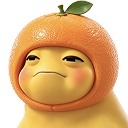
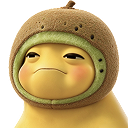
三款游戏统一固定版心；延续奶蛙主题文案
- 三款游戏 .app 版心由 max-width:520px 改为固定 402px（宽屏不拉伸，窄屏才等比缩）
- 连连看：棋盘铺满画板，外圈仅保留 EDGE_GAP(30) 作绕行通道；方块内图片留边收窄（0.14→0.06）显示更大；文案改称「奶蛙」
- 贪吃蛇：开始提示「吃掉苹果」改为「吃掉奶鼠」
- 合成大西瓜：标题与文案统一为「奶蛙」；同步更新 img/9.png

diff --git a/suika/index.html b/suika/index.html
@@ -1,12 +1,11 @@
 <!DOCTYPE html>
-<html lang="zh-CN">
-<head>
-<meta charset="UTF-8">
-<meta name="viewport" content="width=device-width, initial-scale=1.0, maximum-scale=1.0, user-scalable=no, viewport-fit=cover">
-<meta name="theme-color" content="#f0f6f2">
-<meta name="apple-mobile-web-app-capable" content="yes">
-<title>合成大奶蛙</title>
-<style>
+<html lang="zh-CN" data-page-node-id="FT675dci4vxzuFCVSeeFJL"><head data-page-node-id="plPsabgHAC2KqjtmM5Z9Ct">
+<meta charset="UTF-8" data-page-node-id="9n9oV82mLpjTgtW7QeIagv">
+<meta name="viewport" content="width=device-width, initial-scale=1.0, maximum-scale=1.0, user-scalable=no, viewport-fit=cover" data-page-node-id="nBC5vSygVzJ9nP63MO4BLQ">
+<meta name="theme-color" content="#f0f6f2" data-page-node-id="80XOnxO6BtZiggllyMXD4L">
+<meta name="apple-mobile-web-app-capable" content="yes" data-page-node-id="s0mWSZnbzwdZ5LklkCXJx9">
+<title data-page-node-id="EIeQpwPdKN1wwhliaQXJtQ">合成大奶蛙</title>
+<style data-page-node-id="c4By2quFOuNZPMDQRBTwdi">
   * { box-sizing: border-box; }
 
   html, body {
@@ -29,8 +28,9 @@
   }
 
   .app {
-    width: 100%;
-    max-width: 520px;
+    --app-w: 402px;              /* 版心宽度：固定值，屏幕再宽也不拉伸 */
+    width: var(--app-w);
+    max-width: 100%;             /* 只有比版心更窄的屏才等比缩 */
     height: 100vh;
     height: 100dvh;
     margin: 0 auto;
@@ -215,79 +215,79 @@
   .toast.show { opacity: 1; transform: translate(-50%, 0); }
 
   @media (orientation: landscape) and (max-height: 520px) {
-    .app { max-width: 100%; }
+    .app { width: 100%; max-width: 100%; }
     .title { display: none; }
     .tip { display: none; }
   }
 </style>
-</head>
-<body>
-<div class="app">
+<style id="__dm_no_drag_style__">* { -webkit-user-drag: none !important; }</style><style id="__dm_bindable_badge_style__">[data-sp-bindable="database"]{outline:1px dashed #0088ff;outline-offset:2px;border-radius:4px;}[data-sp-bindable="database"] *{pointer-events:none !important;transition:none !important;animation:none !important;}[data-sp-bindable="database"]{transition:none !important;animation:none !important;}</style></head>
+<body data-page-node-id="vkMs0VXdXnDuqpHVjusS9X" style="">
+<div class="app" data-page-node-id="0y4MkHG25q25IrNKgMRhko">
 
   <!-- 菜单栏 -->
-  <header class="topbar">
-    <div class="left">
-      <button class="icon-btn" id="btnBack" aria-label="返回">
-        <svg viewBox="0 0 24 24"><path d="M15 4.5 7.5 12 15 19.5"/></svg>
+  <header class="topbar" data-page-node-id="fCXFmN6wORQ83tbmJu3OzG">
+    <div class="left" data-page-node-id="JD6EvpFfHa9Y8bFGvStSdC">
+      <button class="icon-btn" id="btnBack" aria-label="返回" data-page-node-id="R958mbULn7pAnQHUgbvr3D">
+        <svg viewBox="0 0 24 24" data-page-node-id="cTPlEDU0LByGADNcatEPOU"><path d="M15 4.5 7.5 12 15 19.5" data-page-node-id="Apq2XpDBjtJMYs52GKmjwW"></path></svg>
       </button>
     </div>
-    <div class="title">合成大西瓜</div>
-    <div class="right">
-      <button class="icon-btn" id="btnSound" aria-label="音效">
-        <span id="soundIcon">
-          <svg viewBox="0 0 24 24">
-            <path d="M11 5 6.8 8.6H3.6v6.8h3.2L11 19z"/>
-            <path class="fill-icon" d="M11 5 6.8 8.6H3.6v6.8h3.2L11 19z"/>
+    <div class="title" data-page-node-id="ZUQByBQ4kOGAkBDkAYKKCN" style="">合成大奶蛙</div>
+    <div class="right" data-page-node-id="2gQh1R5IEGkOfTsEuAfRto">
+      <button class="icon-btn" id="btnSound" aria-label="音效" data-page-node-id="Zpe3aPAByVKpQZydC6z1xq">
+        <span id="soundIcon" data-page-node-id="gJP9DLcdlFssT82HaXitD6">
+          <svg viewBox="0 0 24 24" data-page-node-id="n4GdhuWRxjsjk9KllpAdZf">
+            <path d="M11 5 6.8 8.6H3.6v6.8h3.2L11 19z" data-page-node-id="D7RJ5HqVEoWrE1t8cQ9Heh"></path>
+            <path class="fill-icon" d="M11 5 6.8 8.6H3.6v6.8h3.2L11 19z" data-page-node-id="wRwqbbYBPLaFnTxmrAsNNI"></path>
           </svg>
         </span>
       </button>
-      <button class="icon-btn" id="btnPause" aria-label="暂停">
-        <span id="pauseIcon">
-          <svg viewBox="0 0 24 24">
-            <rect class="fill-icon" x="6.5" y="5" width="3.6" height="14" rx="1.4"/>
-            <rect class="fill-icon" x="13.9" y="5" width="3.6" height="14" rx="1.4"/>
+      <button class="icon-btn" id="btnPause" aria-label="暂停" data-page-node-id="2kFyOVNBgjuCKi3BxJ3BvI">
+        <span id="pauseIcon" data-page-node-id="afHJv87eIWyntykXQ7AmJT">
+          <svg viewBox="0 0 24 24" data-page-node-id="8bKXt5y41YHEjchVzE9M8V">
+            <rect class="fill-icon" x="6.5" y="5" width="3.6" height="14" rx="1.4" data-page-node-id="WptZPHwvqInOw9H7JujxE0"></rect>
+            <rect class="fill-icon" x="13.9" y="5" width="3.6" height="14" rx="1.4" data-page-node-id="YLQOaHOQsFPHdaW5MrFwQE"></rect>
           </svg>
         </span>
       </button>
-      <button class="icon-btn" id="btnReset" aria-label="重置">
-        <svg viewBox="0 0 24 24">
-          <path d="M20 12a8 8 0 1 1-2.6-5.9"/>
-          <path d="M20 4.5V10h-5.2"/>
+      <button class="icon-btn" id="btnReset" aria-label="重置" data-page-node-id="argEC1ARnguev22WwsmHGx">
+        <svg viewBox="0 0 24 24" data-page-node-id="iFdCiTnBoESxOw2tDsiWa2">
+          <path d="M20 12a8 8 0 1 1-2.6-5.9" data-page-node-id="TE1MBdvxXJUhberLhBRyhM"></path>
+          <path d="M20 4.5V10h-5.2" data-page-node-id="Xni7NnSnJ8Is1TSam3T6LG"></path>
         </svg>
       </button>
     </div>
   </header>
 
   <!-- 数据 -->
-  <div class="scores">
-    <div class="score-card">
-      <span class="label">得分</span>
-      <span class="value" id="score">0</span>
+  <div class="scores" data-page-node-id="nYhbjpJTGkFlU52qEAJ4vi">
+    <div class="score-card" data-page-node-id="8HVSjlAj0Z0M9hmUBE65AC">
+      <span class="label" data-page-node-id="AZwnAnPHDeGi9nEV1IbDqD">得分</span>
+      <span class="value" id="score" data-page-node-id="WTLuyB6TRuDrDDBXHPTsLf">0</span>
     </div>
-    <div class="score-card mid">
-      <span class="label">最高</span>
-      <span class="value best" id="best">0</span>
+    <div class="score-card mid" data-page-node-id="mHH5zeWAgGhGkYT2YL5cL9">
+      <span class="label" data-page-node-id="8FcGuOGpWWWslTTc2XERVr">最高</span>
+      <span class="value best" id="best" data-page-node-id="8Ok6QB5FWUzBSWfVnP6FMw">0</span>
     </div>
-    <div class="next-box">
-      <span class="label">下一个</span>
-      <canvas id="nextCv"></canvas>
+    <div class="next-box" data-page-node-id="BPMYrq3SBfx9nyp8jb9KHm">
+      <span class="label" data-page-node-id="dhTOi1ROYy9uebVDDNMrxN">下一个</span>
+      <canvas id="nextCv" data-page-node-id="4vguz1OGJsyNPo8BGmZHRr"></canvas>
     </div>
   </div>
 
   <!-- 游戏窗口 -->
-  <div class="board-wrap" id="boardWrap">
-    <canvas id="game"></canvas>
-    <div class="overlay" id="overlay">
-      <div class="card" id="overlayCard"></div>
+  <div class="board-wrap" id="boardWrap" data-page-node-id="FNWf7XPDWXTFHAyvTJdE03">
+    <canvas id="game" data-page-node-id="4xXyLJAHC2Y110oOXNOhFJ"></canvas>
+    <div class="overlay" id="overlay" data-page-node-id="fibvFyk5bzDCmnaTdqaAaM">
+      <div class="card" id="overlayCard" data-page-node-id="A8UE2QBMg8P6lOLP3nrnba"></div>
     </div>
   </div>
 
-  <div class="tip" id="tip">拖动调整位置 · 松手投放</div>
+  <div class="tip" id="tip" data-page-node-id="E6sryOAJaYoJqKgMhabavw">拖动调整位置 · 松手投放</div>
 </div>
 
-<div class="toast" id="toast"></div>
+<div class="toast" id="toast" data-page-node-id="4aZOY4L77hAai7ZepzKqTp"></div>
 
-<script>
+<script data-page-node-id="MqKZXn8mxti1mnlnKdsmTk">
 (function () {
   'use strict';
 
@@ -1221,11 +1221,11 @@
     let html = '';
     if (type === 'ready') {
       html =
-        '<div class="c-title">合成大西瓜</div>' +
+        '<div class="c-title">合成大奶蛙</div>' +
         '<div class="c-desc">' +
           '移动手指选好位置，松手投放。<br>' +
-          '两个<b>相同</b>的水果碰到一起就合成更大的一个。<br>' +
-          '堆过红线就结束了，冲一个<span class="badge">大西瓜</span>出来吧！' +
+          '两个<b>相同</b>的奶蛙碰到一起就合成更大的一个。<br>' +
+          '堆过红线就结束了，冲一个<span class="badge">大奶蛙</span>出来吧！' +
         '</div>' +
         '<button class="c-btn" id="againBtn">开始游戏</button>';
     } else if (type === 'pause') {
@@ -1389,5 +1389,6 @@
   requestAnimationFrame(loop);
 })();
 </script>
-</body>
-</html>
+
+
+</body></html>

diff --git a/lianliankan/index.html b/lianliankan/index.html
@@ -29,8 +29,9 @@
   }
 
   .app {
-    width: 100%;
-    max-width: 520px;
+    --app-w: 402px;              /* 版心宽度：固定值，屏幕再宽也不拉伸 */
+    width: var(--app-w);
+    max-width: 100%;
     height: 100vh;
     height: 100dvh;
     margin: 0 auto;
@@ -246,7 +247,7 @@
   .toast.show { opacity: 1; transform: translate(-50%, 0); }
 
   @media (orientation: landscape) and (max-height: 520px) {
-    .app { max-width: 100%; }
+    .app { width: 100%; max-width: 100%; }
     .tools { --th: 44px; }
   }
 </style>
@@ -354,6 +355,7 @@
   const ROWS      = 8;
   const GX        = COLS + 2;           // 逻辑格 10 x 10，外圈空着用于绕行
   const GY        = ROWS + 2;
+  const EDGE_GAP  = 30;                 // 方块区到画板边缘的距离（外圈仅作连线绕行通道）
   const MATCH     = 10;                 // 每消一对得分
   const HINT_COST = 2;
   const STORE_KEY = 'link_best_score_v1';
@@ -396,6 +398,7 @@
   let lastTick  = 0;
   let sizeCss   = 300;
   let cell      = 30;
+  let margin    = 30;          // 方块区到画板边缘的实际距离
   let dpr       = 1;
   let bornAt    = 0;
   let hint      = null;        // {a,b,until}
@@ -414,7 +417,9 @@
     const avail = Math.min(rect.width, rect.height);
     const size = Math.max(160, Math.floor(avail) - 2);
     sizeCss = size;
-    cell = size / GX;
+    // 方块区尽量铺满画板：只留 EDGE_GAP 的绕行通道，屏幕过小时按比例缩
+    margin = Math.min(EDGE_GAP, size * 0.085);
+    cell = (size - margin * 2) / COLS;
     dpr = Math.min(window.devicePixelRatio || 1, 2.5);
     canvas.style.width  = size + 'px';
     canvas.style.height = size + 'px';
@@ -670,10 +675,10 @@
   /* ========== 点击逻辑 ========== */
   function pick(ev) {
     const r = canvas.getBoundingClientRect();
-    const px = (ev.clientX - r.left) / r.width * sizeCss;
-    const py = (ev.clientY - r.top) / r.height * sizeCss;
-    const x = Math.floor(px / cell);
-    const y = Math.floor(py / cell);
+    const vx = (ev.clientX - r.left) / r.width * sizeCss;
+    const vy = (ev.clientY - r.top) / r.height * sizeCss;
+    const x = Math.floor((vx - margin) / cell) + 1;
+    const y = Math.floor((vy - margin) / cell) + 1;
     if (x < 1 || x > COLS || y < 1 || y > ROWS) return null;
     if (!grid[y][x]) return null;
     return { x: x, y: y };
@@ -723,7 +728,13 @@
   }
 
   /* ========== 渲染 ========== */
-  function px(p) { return { x: (p.x + 0.5) * cell, y: (p.y + 0.5) * cell }; }
+  // 逻辑格 → 像素中心：内部格按方块区排布，最外一圈映射到留白带中间
+  function g2px(n, max) {
+    if (n <= 0) return margin / 2;
+    if (n >= max - 1) return sizeCss - margin / 2;
+    return margin + (n - 0.5) * cell;
+  }
+  function px(p) { return { x: g2px(p.x, GX), y: g2px(p.y, GY) }; }
 
   function drawGlyph(kind, r, t) {
     const c = t.color, l = t.light;
@@ -854,7 +865,7 @@
 
   function drawTile(x, y, v, now) {
     const t = TYPES[v - 1];
-    const cx = (x + 0.5) * cell, cy = (y + 0.5) * cell;
+    const cx = margin + (x - 0.5) * cell, cy = margin + (y - 0.5) * cell;
     let dx = 0, dy = 0, scale = 1, alpha = 1;
 
     // 生成动画
@@ -885,7 +896,7 @@
     const isSel = !!(sel && sel.x === x && sel.y === y);
     if (isSel) scale *= 1.05;
 
-    const pad = cell * 0.07;
+    const pad = cell * 0.055;
     const s = cell - pad * 2;
     const rr = s * 0.29;
 
@@ -906,7 +917,7 @@
         ctx.strokeStyle = rgba(t.color, 0.34);
         ctx.stroke();
 
-        const inset = s * 0.14;
+        const inset = s * 0.06;      // 图片在卡片内留的边（越小图越大）
         const box = s - inset * 2;
         ctx.save();
         rrect(-box / 2, -box / 2, box, box, box * 0.2);
@@ -1020,16 +1031,18 @@
     ctx.fillStyle = '#e7eee9';
     ctx.fillRect(0, 0, w, w);
 
-    // 内部浅色棋格
+    // 内部浅色棋格（铺满方块区）
     ctx.fillStyle = '#f2f8f4';
     for (let y = 1; y <= ROWS; y++) {
       for (let x = 1; x <= COLS; x++) {
-        if ((x + y) % 2 === 0) ctx.fillRect(x * cell, y * cell, cell, cell);
+        if ((x + y) % 2 === 0) {
+          ctx.fillRect(margin + (x - 1) * cell, margin + (y - 1) * cell, cell, cell);
+        }
       }
     }
     ctx.strokeStyle = 'rgba(28,70,52,.08)';
     ctx.lineWidth = 1;
-    ctx.strokeRect(cell + 0.5, cell + 0.5, COLS * cell - 1, ROWS * cell - 1);
+    ctx.strokeRect(margin + 0.5, margin + 0.5, COLS * cell - 1, ROWS * cell - 1);
 
     for (let y = 1; y <= ROWS; y++) {
       for (let x = 1; x <= COLS; x++) {
@@ -1090,7 +1103,7 @@
     let html = '';
     if (type === 'ready') {
       html = '<div class="c-title">开始连连看</div>' +
-             '<div class="c-desc">点两张<b>相同的方块</b>把它们消掉<br>' +
+             '<div class="c-desc">点击两个<b>相同的奶蛙</b>把它们消掉<br>' +
              '连线最多拐两次弯，外圈也能绕<br>' +
              '点一下棋盘就开始计时</div>';
     } else if (type === 'paused') {

diff --git a/snake/index.html b/snake/index.html
@@ -29,8 +29,9 @@
   }
 
   .app {
-    width: 100%;
-    max-width: 520px;
+    --app-w: 402px;          /* 固定版心，屏幕再宽也不拉伸 */
+    width: var(--app-w);
+    max-width: 100%;         /* 只有比 402 更窄的屏才等比缩 */
     height: 100vh;
     height: 100dvh;
     margin: 0 auto;
@@ -244,7 +245,6 @@
   .toast.show { opacity: 1; transform: translate(-50%, 0); }
 
   @media (orientation: landscape) and (max-height: 520px) {
-    .app { max-width: 100%; }
     .pad { --ph: 42px; }
   }
 </style>
@@ -712,7 +712,7 @@
     let html = '';
     if (type === 'ready') {
       html = '<div class="c-title">准备出发</div>' +
-             '<div class="c-desc">按下方方向键或滑动屏幕开始<br>吃掉苹果，别撞墙也别咬到自己</div>';
+             '<div class="c-desc">按下方方向键或滑动屏幕开始<br>吃掉奶鼠，别撞墙也别咬到自己</div>';
     } else if (type === 'paused') {
       html = '<div class="c-title">已暂停</div>' +
              '<div class="c-desc">点击屏幕或按方向键继续</div>';
